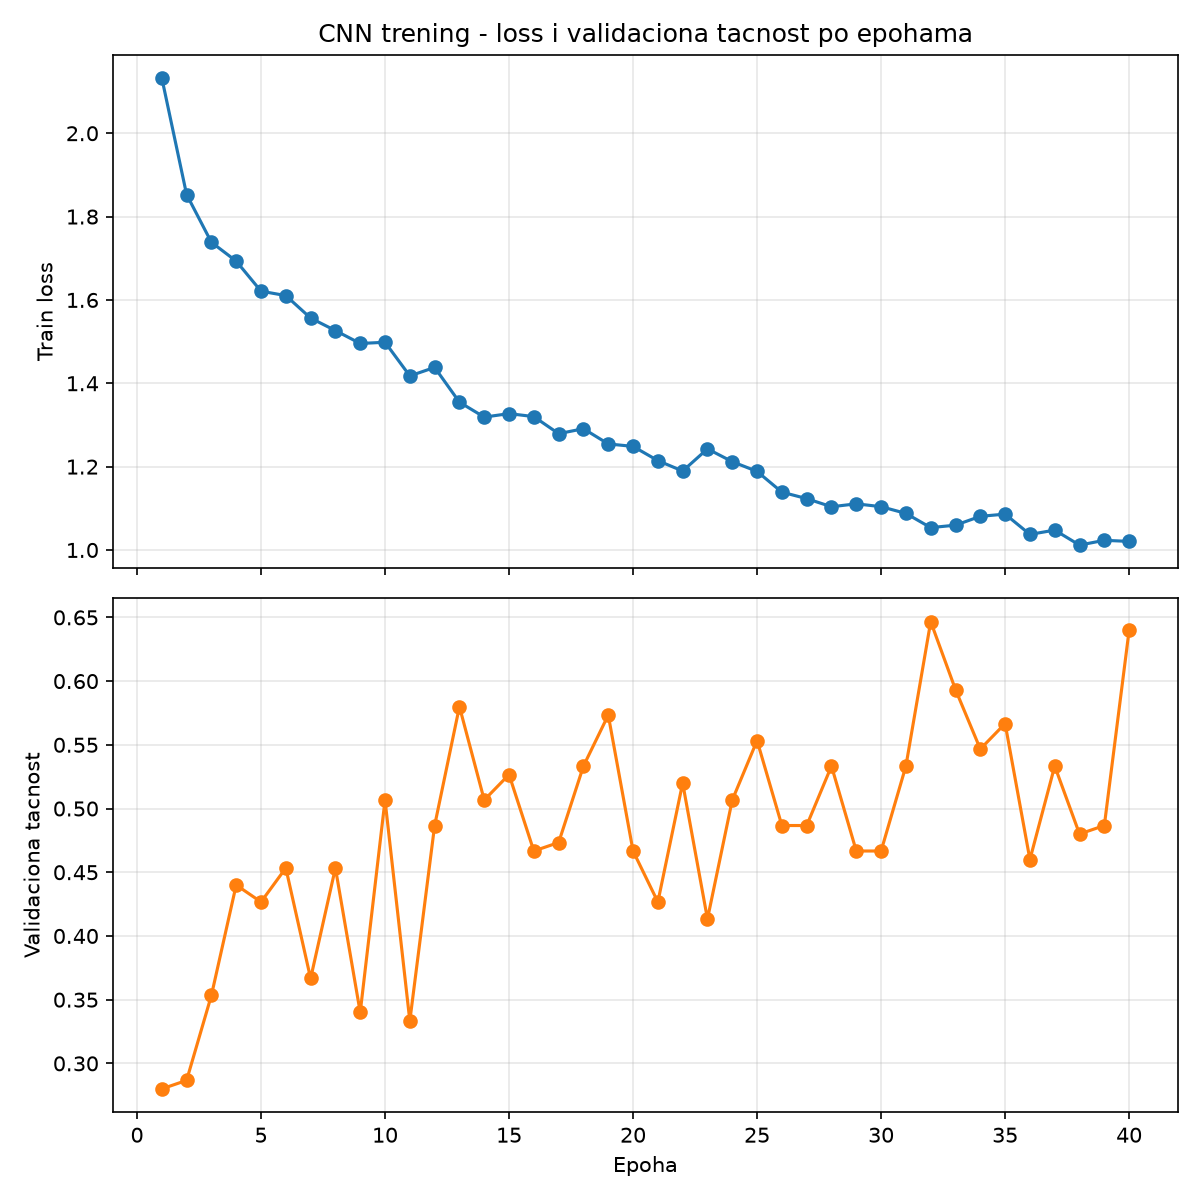
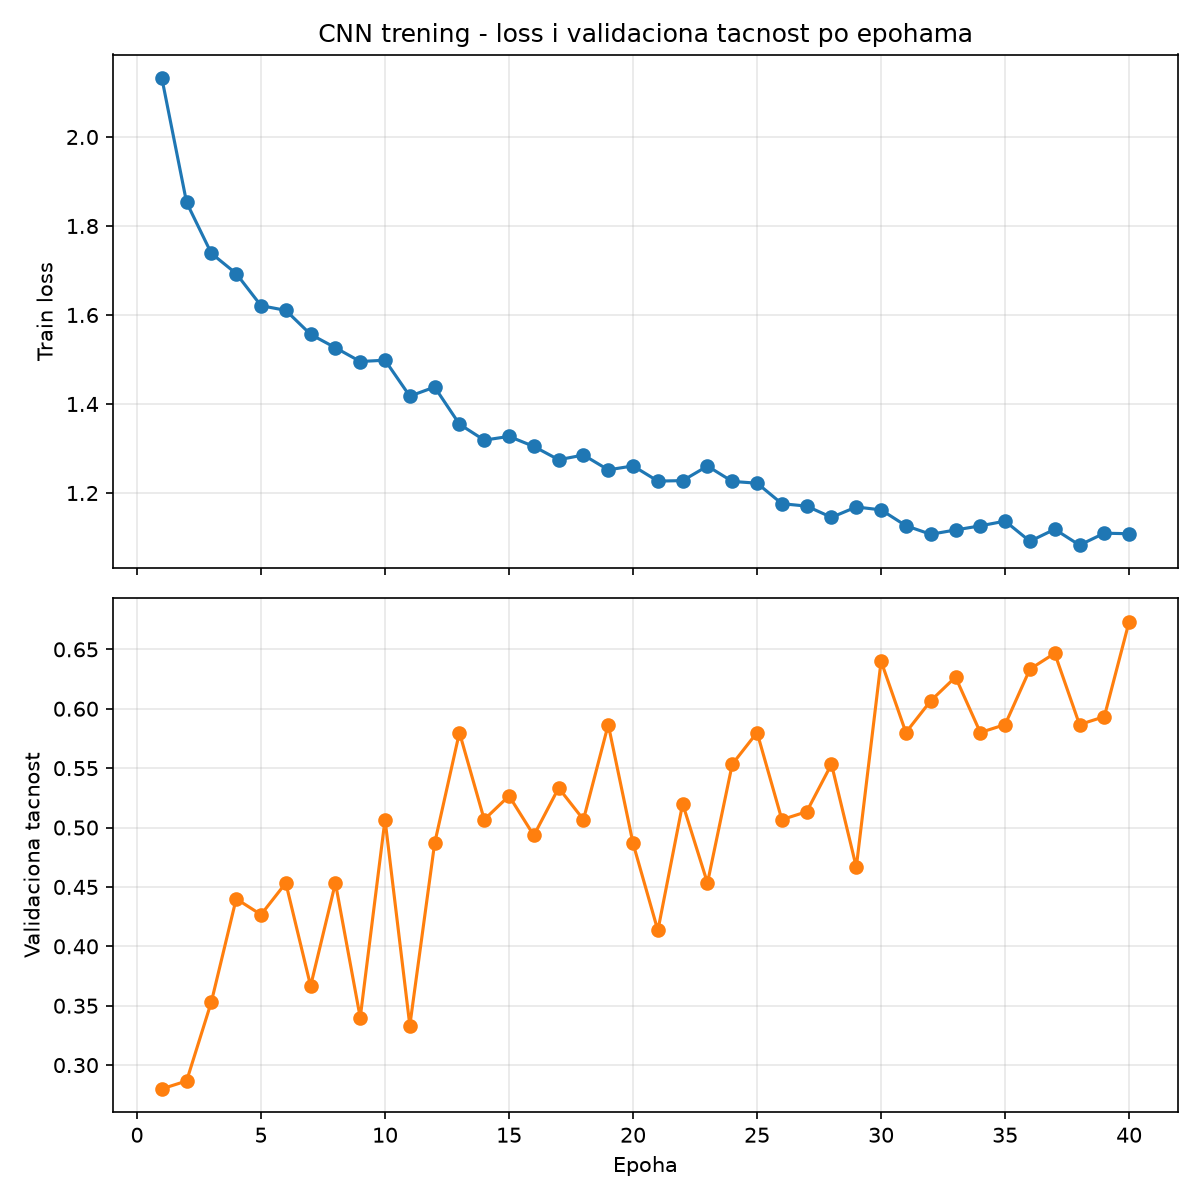
Add LR scheduler to CNN training (test accuracy 67% -> 72.7%)

diff --git a/src/train_cnn.py b/src/train_cnn.py
@@ -30,7 +30,6 @@ def run():
         sample_rate=cfg["data"]["sample_rate"],
         segment_duration=cfg["data"]["segment_duration"],
         n_mels=cfg["data"]["n_mels"],
-        deterministic=True,
     )
 
     train_loader = DataLoader(train_ds, batch_size=cfg["train"]["batch_size"], shuffle=True)
@@ -38,6 +37,9 @@ def run():
 
     model = GenreCNN(n_genres=len(genres), n_mels=cfg["data"]["n_mels"]).to(device)
     optimizer = torch.optim.Adam(model.parameters(), lr=cfg["train"]["lr"])
+    # Learning rate scheduler: na svakih 15 epoha prepolovi lr (npr. 0.001 -> 0.0005 -> 0.00025)
+    # cilj: da se trening "smiri" pred kraj umesto da lr ostane fiksan kroz svih 40 epoha
+    scheduler = torch.optim.lr_scheduler.StepLR(optimizer, step_size=15, gamma=0.5)
     criterion = torch.nn.CrossEntropyLoss()
 
     MODELS_SAVED_DIR.mkdir(parents=True, exist_ok=True)
@@ -70,14 +72,18 @@ def run():
         train_loss = total_loss / len(train_loader)
         train_losses.append(train_loss)
         val_accs.append(val_acc)
+        current_lr = optimizer.param_groups[0]["lr"]
         print(f"epoch {epoch+1}/{cfg['train']['epochs']} "
               f"train_loss={train_loss:.4f} "
-              f"val_acc={val_acc:.4f}")
+              f"val_acc={val_acc:.4f} "
+              f"lr={current_lr:.6f}")
 
         if val_acc > best_val_acc:
             best_val_acc = val_acc
             torch.save(model.state_dict(), MODELS_SAVED_DIR / "genre_cnn_best.pt")
             print(f"  -> novi najbolji model sacuvan (val_acc={val_acc:.4f})")
+
+        scheduler.step()
 
     torch.save(model.state_dict(), MODELS_SAVED_DIR / "genre_cnn_last.pt")
     print(f"Trening zavrsen. Najbolji val_acc={best_val_acc:.4f} "

diff --git a/src/evaluate.py b/src/evaluate.py
@@ -23,7 +23,6 @@ def run():
         sample_rate=cfg["data"]["sample_rate"],
         segment_duration=cfg["data"]["segment_duration"],
         n_mels=cfg["data"]["n_mels"],
-        deterministic=True,
     )
     test_loader = DataLoader(test_ds, batch_size=cfg["train"]["batch_size"])
 
